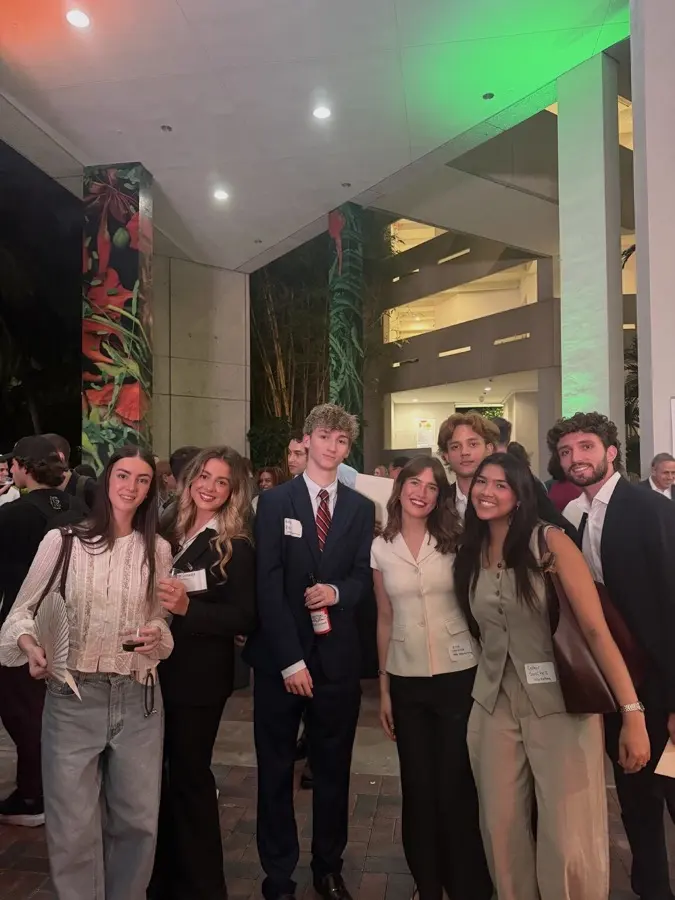
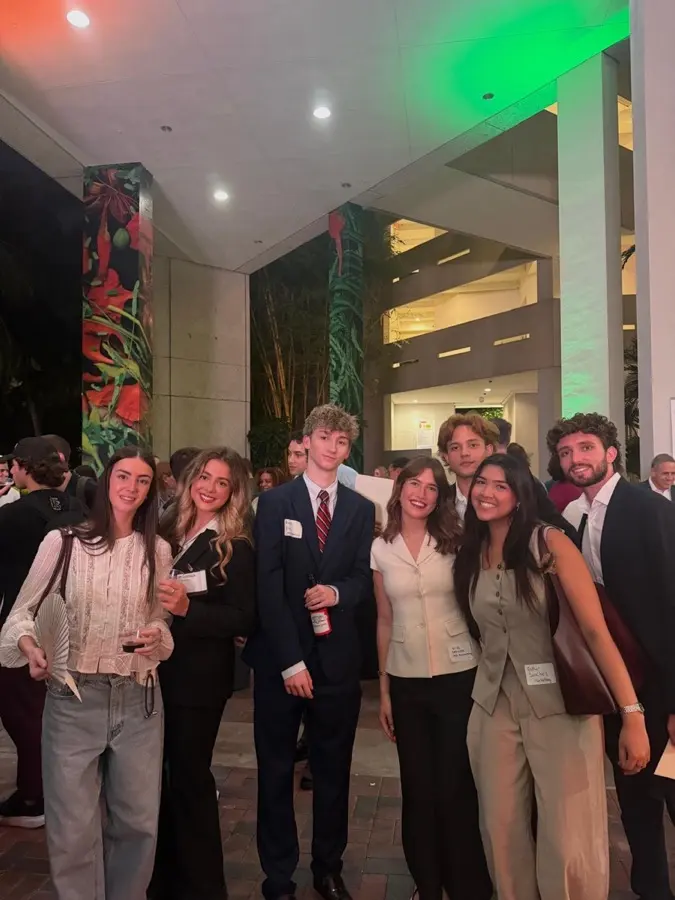
Add Daily Crunch case, first-semester story and new Clearwater and Miami photos

diff --git a/index.html b/index.html
@@ -16,7 +16,7 @@
 	<link rel="preconnect" href="https://fonts.gstatic.com" crossorigin>
 	<link rel="stylesheet" href="https://fonts.googleapis.com/css2?family=DM+Mono:wght@400;500&family=Fraunces:ital,opsz,wght,SOFT,WONK@0,9..144,300..700,0..100,0..1;1,9..144,300..700,0..100,0..1&family=Poppins:wght@300;400;500;600&display=swap">
 	<link rel="preload" as="image" href="assets/img/headshot.webp" type="image/webp">
-	<link rel="stylesheet" href="assets/css/style.css?v=6">
+	<link rel="stylesheet" href="assets/css/style.css?v=8">
 	<script>document.documentElement.classList.add("js");</script>
 </head>
 <body>
@@ -202,7 +202,7 @@
 							<h3 class="panel-city">Clearwater<small>Florida</small></h3>
 							<p class="panel-title">New country, new language, new education system.</p>
 							<p>In August 2021 I moved from Italy to the United States. I left my family, my friends, and basically everything I knew. I barely spoke English, and I had to learn a completely different culture and school system.</p>
-							<p>I started at St. Petersburg College in Clearwater, near Tampa, beginning with intensive English. Two years later I had my Associate of Arts and straight A's. Looking back, this is where I learned to be independent, adaptable, and comfortable with change.</p>
+							<p>I started at St. Petersburg College in Clearwater, near Tampa, in the Intensive English Program. By November I was presenting in English, on artificial intelligence in cars. Two years later I had my Associate of Arts and straight A's. This is where I learned to be independent, adaptable, and comfortable with change.</p>
 						</div>
 						<div class="panel-visual">
 							<button class="flip" type="button" aria-pressed="false" aria-label="Clearwater: flip between the illustration and the photo" data-cursor="Flip">
@@ -325,8 +325,8 @@
 											</g>
 										</svg>
 									</span>
-									<span class="flip-face flip-back arch arch--wide">
-										<img src="assets/img/um-cohort-sm.webp" width="900" height="529" decoding="async" alt="The inaugural M.S. in Marketing cohort at the University of Miami Business School">
+									<span class="flip-face flip-back arch">
+										<img src="assets/img/um-team-portrait-sm.webp" width="900" height="1200" decoding="async" alt="Giuseppe and three teammates in suits in front of their Daily Crunch presentation slide at the University of Miami">
 									</span>
 								</span>
 								<span class="flip-hint" aria-hidden="true"><svg viewBox="0 0 24 24"><path d="M3 12a9 9 0 0 1 15.300-6.400L21 8"/><path d="M21 3v5h-5"/><path d="M21 12a9 9 0 0 1-15.300 6.400L3 16"/><path d="M3 21v-5h5"/></svg></span>
@@ -430,11 +430,21 @@
 					</a>
 
 					<button class="card card--crooked rv" type="button" data-dialog="dlg-crooked" data-cursor="Open">
-						<img src="assets/img/um-crookedpop-kickoff-sm.webp" width="900" height="612" loading="lazy" decoding="async" alt="">
+						<img src="assets/img/um-crookedpop-team-sm.webp" width="900" height="506" loading="lazy" decoding="async" alt="">
 						<span class="card-top"><span class="tag tag--light">Live client project · In progress</span></span>
 						<span class="card-body">
 							<span class="card-title">Crooked Pop <em>× MKT 657</em></span>
 							<span class="card-desc">A real brief from a real brand, inside my graduate Digital Marketing class.</span>
+						</span>
+						<span class="card-arrow" aria-hidden="true"><svg viewBox="0 0 24 24"><path d="M7 17L17 7M9 7h8v8"/></svg></span>
+					</button>
+
+					<button class="card card--crunch rv" type="button" data-dialog="dlg-crunch" data-cursor="Open">
+						<img src="assets/img/um-dailycrunch-team-sm.webp" width="900" height="675" loading="lazy" decoding="async" alt="">
+						<span class="card-top"><span class="tag tag--light">Team case analysis · MKT 695</span></span>
+						<span class="card-body">
+							<span class="card-title">Daily Crunch <em>case</em></span>
+							<span class="card-desc">A growth strategy for a start-up that lost in-person sampling, defended in front of the class.</span>
 						</span>
 						<span class="card-arrow" aria-hidden="true"><svg viewBox="0 0 24 24"><path d="M7 17L17 7M9 7h8v8"/></svg></span>
 					</button>
@@ -552,6 +562,7 @@
 									<li>Strategic Marketing</li>
 									<li>New Product Development</li>
 									<li>Application of AI in Marketing</li>
+								<li>MKT 695 Topics in Marketing</li>
 								</ul>
 							</div>
 						</div></div>
@@ -596,7 +607,7 @@
 						</button></h3>
 						<div class="acc-panel" id="edu-spc" role="region" aria-labelledby="edu-spc-b"><div class="acc-inner">
 							<div>
-								<p>My first two years in the United States: from intensive English to a full business and liberal arts foundation, before transferring to the University of Georgia.</p>
+								<p>My first two years in the United States: from the Intensive English Program at the International Language Institute to a full business and liberal arts foundation, before transferring to the University of Georgia.</p>
 								<ul class="badges">
 									<li><b>4.00</b> GPA on transfer credits</li>
 								</ul>
@@ -625,6 +636,7 @@
 				<header class="sec-head">
 					<p class="eyebrow rv">(07) — Point of view</p>
 					<h2 class="display rv">AI will transform marketing. <em>It won't replace marketers.</em></h2>
+					<p class="sec-lede rv">A thread that started early: in November 2021, three months after landing in Florida, my class presentation in the Intensive English Program was on artificial intelligence in cars.</p>
 				</header>
 
 				<div class="pov-grid">
@@ -678,23 +690,30 @@
 
 				<div class="gallery" id="gallery">
 					<button class="shot" type="button" data-set="athens" data-full="assets/img/grad-bell.webp" data-cap="Ringing the Chapel Bell · University of Georgia" data-cursor="View"><img src="assets/img/grad-bell-sm.webp" width="600" height="900" loading="lazy" decoding="async" alt="Giuseppe in cap and gown ringing the Chapel Bell at the University of Georgia"><span>Ringing the Chapel Bell</span></button>
+					<button class="shot" type="button" data-set="miami" data-full="assets/img/um-ibis.webp" data-cap="With Sebastian the Ibis · Alumni Networking Social, Miami Business School" data-cursor="View"><img src="assets/img/um-ibis-sm.webp" width="675" height="900" loading="lazy" decoding="async" alt="Giuseppe in a dark blazer smiling next to Sebastian the Ibis, the University of Miami mascot"><span>With Sebastian the Ibis</span></button>
 					<button class="shot" type="button" data-set="miami" data-full="assets/img/um-cohort.webp" data-cap="Inaugural M.S. in Marketing cohort · Photo: University of Miami Business School" data-cursor="View"><img src="assets/img/um-cohort-sm.webp" width="900" height="529" loading="lazy" decoding="async" alt="The inaugural M.S. in Marketing cohort standing in a classroom at Miami Business School"><span>The inaugural cohort</span></button>
+					<button class="shot" type="button" data-set="clearwater" data-full="assets/img/spc-ai-talk.webp" data-cap="Presenting &ldquo;Artificial Intelligence in Cars&rdquo; in the Intensive English Program, November 2021 · Photo: SPC International Language Institute" data-cursor="View"><img src="assets/img/spc-ai-talk-sm.webp" width="900" height="570" loading="lazy" decoding="async" alt="Giuseppe presenting in a classroom next to a slide titled Artificial Intelligence in Cars with his name on it"><span>AI in Cars, 2021</span></button>
 					<button class="shot" type="button" data-set="clearwater" data-full="assets/img/spc-diploma.webp" data-cap="Associate of Arts · St. Petersburg College" data-cursor="View"><img src="assets/img/spc-diploma-sm.webp" width="601" height="900" loading="lazy" decoding="async" alt="Giuseppe in a blue cap and gown holding his St. Petersburg College diploma beside a college official in academic regalia"><span>Associate of Arts</span></button>
 					<button class="shot" type="button" data-set="athens" data-full="assets/img/grad-jump.webp" data-cap="Sanford Stadium · Athens, GA" data-cursor="View"><img src="assets/img/grad-jump-sm.webp" width="600" height="900" loading="lazy" decoding="async" alt="Giuseppe jumping in his graduation gown and throwing his cap at Sanford Stadium"><span>Class of 2026</span></button>
 					<button class="shot" type="button" data-set="athens" data-full="assets/img/grad-arch.webp" data-cap="The Arch · University of Georgia" data-cursor="View"><img src="assets/img/grad-arch-sm.webp" width="600" height="900" loading="lazy" decoding="async" alt="Giuseppe smiling beside the UGA Arch wearing a red graduation stole"><span>The Arch</span></button>
+					<button class="shot" type="button" data-set="miami" data-full="assets/img/um-crookedpop-team.webp" data-cap="Crooked Pop × MKT 657 · With classmates and our guest from the brand" data-cursor="View"><img src="assets/img/um-crookedpop-team-sm.webp" width="900" height="506" loading="lazy" decoding="async" alt="Giuseppe and four classmates holding Crooked Pop cans next to the guest speaker from the brand"><span>Crooked Pop, in hand</span></button>
 					<button class="shot" type="button" data-set="miami" data-full="assets/img/um-council.webp" data-cap="Marketing Advisory Council networking event · Photo: University of Miami Marketing Department" data-cursor="View"><img src="assets/img/um-council-sm.webp" width="900" height="675" loading="lazy" decoding="async" alt="M.S. in Marketing students with Marketing Advisory Council members"><span>Marketing Advisory Council night</span></button>
 					<button class="shot" type="button" data-set="athens" data-full="assets/img/grad-stage.webp" data-cap="FACS Convocation · College of Family and Consumer Sciences" data-cursor="View"><img src="assets/img/grad-stage-sm.webp" width="601" height="900" loading="lazy" decoding="async" alt="Giuseppe in cap and gown in front of a University of Georgia College of Family and Consumer Sciences banner"><span>Convocation</span></button>
 					<button class="shot" type="button" data-set="athens" data-full="assets/img/grad-fountain.webp" data-cap="North Campus · Athens, GA" data-cursor="View"><img src="assets/img/grad-fountain-sm.webp" width="600" height="900" loading="lazy" decoding="async" alt="Giuseppe standing in front of a fountain on the UGA campus"><span>North Campus</span></button>
+					<button class="shot" type="button" data-set="miami" data-full="assets/img/um-dailycrunch-team.webp" data-cap="Daily Crunch case analysis · MKT 695 Topics in Marketing, September 2026" data-cursor="View"><img src="assets/img/um-dailycrunch-team-sm.webp" width="900" height="675" loading="lazy" decoding="async" alt="Giuseppe and three teammates in suits standing in front of the title slide of their Daily Crunch case analysis"><span>Daily Crunch, the team</span></button>
 					<button class="shot" type="button" data-set="miami" data-full="assets/img/um-networking-group.webp" data-cap="Alumni Networking Social · Miami Business School" data-cursor="View"><img src="assets/img/um-networking-group-sm.webp" width="675" height="900" loading="lazy" decoding="async" alt="Giuseppe with classmates at the Miami Business School Alumni Networking Social"><span>Alumni Networking Social</span></button>
+					<button class="shot" type="button" data-set="clearwater" data-full="assets/img/spc-festival.webp" data-cap="International Language Institute students and instructors at the International Greek Festival, November 2021 · Photo: SPC International Language Institute" data-cursor="View"><img src="assets/img/spc-festival-sm.webp" width="900" height="589" loading="lazy" decoding="async" alt="Students and instructors of the International Language Institute in blue SPC T-shirts posing under oak trees"><span>ILI at the Greek Festival</span></button>
 					<button class="shot" type="button" data-set="clearwater" data-full="assets/img/spc-smile.webp" data-cap="Commencement · St. Petersburg College" data-cursor="View"><img src="assets/img/spc-smile-sm.webp" width="601" height="900" loading="lazy" decoding="async" alt="Giuseppe smiling in a blue St. Petersburg College cap and gown with gold cords"><span>First American diploma</span></button>
 					<button class="shot" type="button" data-set="athens" data-full="assets/img/grad-cap.webp" data-cap="Sanford Stadium · Athens, GA" data-cursor="View"><img src="assets/img/grad-cap-sm.webp" width="600" height="900" loading="lazy" decoding="async" alt="Giuseppe raising his graduation cap in the stands of Sanford Stadium"><span>Between the hedges</span></button>
 					<button class="shot" type="button" data-set="miami" data-full="assets/img/um-crookedpop-class.webp" data-cap="Crooked Pop kickoff, MKT 657 · Photo: Amy Agramonte / University of Miami" data-cursor="View"><img src="assets/img/um-crookedpop-class-sm.webp" width="900" height="465" loading="lazy" decoding="async" alt="The Digital Marketing class making the U hand sign with a guest speaker from Crooked Pop"><span>Throwing up the U</span></button>
 					<button class="shot" type="button" data-set="athens" data-full="assets/img/grad-columns.webp" data-cap="Holmes-Hunter Academic Building · University of Georgia" data-cursor="View"><img src="assets/img/grad-columns-sm.webp" width="600" height="900" loading="lazy" decoding="async" alt="Giuseppe laughing in his gown on the steps between white columns"><span>Holmes-Hunter</span></button>
 					<button class="shot" type="button" data-set="athens" data-full="assets/img/grad-handshake.webp" data-cap="FACS Convocation · University of Georgia" data-cursor="View"><img src="assets/img/grad-handshake-sm.webp" width="601" height="900" loading="lazy" decoding="async" alt="Giuseppe in cap and gown shaking hands with a faculty member in academic regalia"><span>The handshake</span></button>
 					<button class="shot" type="button" data-set="miami" data-full="assets/img/um-networking.webp" data-cap="Alumni Networking Social · Photo: Unanue Graduate Career Advancement Center" data-cursor="View"><img src="assets/img/um-networking-sm.webp" width="900" height="599" loading="lazy" decoding="async" alt="Students and alumni networking on the Finker-Frenkel Family Promenade"><span>Once a ’Cane</span></button>
+					<button class="shot" type="button" data-set="clearwater" data-full="assets/img/spc-day-one.webp" data-cap="Fall Semester 2021, Intensive English Program · Photo: SPC International Language Institute" data-cursor="View"><img src="assets/img/spc-day-one-sm.webp" width="900" height="675" loading="lazy" decoding="async" alt="A group of international students wearing face masks standing together in a campus lounge"><span>Fall 2021: the start</span></button>
 					<button class="shot" type="button" data-set="clearwater" data-full="assets/img/spc-portrait.webp" data-cap="St. Petersburg College · Clearwater, FL" data-cursor="View"><img src="assets/img/spc-portrait-sm.webp" width="601" height="900" loading="lazy" decoding="async" alt="Portrait of Giuseppe in a blue cap and gown with gold cords"><span>St. Petersburg College</span></button>
 					<button class="shot" type="button" data-set="athens" data-full="assets/img/grad-stadium.webp" data-cap="Sanford Stadium · University of Georgia" data-cursor="View"><img src="assets/img/grad-stadium-sm.webp" width="600" height="900" loading="lazy" decoding="async" alt="Giuseppe in a navy suit and red stole outside Sanford Stadium"><span>Sanford Stadium</span></button>
 					<button class="shot" type="button" data-set="athens" data-full="assets/img/grad-portrait.webp" data-cap="B.S. in Consumer Economics · University of Georgia" data-cursor="View"><img src="assets/img/grad-portrait-sm.webp" width="600" height="900" loading="lazy" decoding="async" alt="Close portrait of Giuseppe in his graduation gown and red stole"><span>B.S., Consumer Economics</span></button>
+					<button class="shot" type="button" data-set="miami" data-full="assets/img/um-backstage.webp" data-cap="Minutes before a presentation · University of Miami" data-cursor="View"><img src="assets/img/um-backstage-sm.webp" width="900" height="675" loading="lazy" decoding="async" alt="Selfie of Giuseppe in a suit and tie with teammates getting ready behind him"><span>Before the pitch</span></button>
 					<button class="shot" type="button" data-set="miami" data-full="assets/img/um-class.webp" data-cap="With classmates and faculty" data-cursor="View"><img src="assets/img/um-class-sm.webp" width="900" height="675" loading="lazy" decoding="async" alt="A group of classmates and a professor posing in a classroom"><span>Classmates</span></button>
 					<button class="shot" type="button" data-set="athens" data-full="assets/img/grad-road.webp" data-cap="Athens, GA" data-cursor="View"><img src="assets/img/grad-road-sm.webp" width="600" height="900" loading="lazy" decoding="async" alt="Giuseppe standing in the middle of an empty campus road in his gown"><span>Athens, GA</span></button>
 					<button class="shot" type="button" data-set="athens" data-full="assets/img/grad-lamppost.webp" data-cap="North Campus · University of Georgia" data-cursor="View"><img src="assets/img/grad-lamppost-sm.webp" width="600" height="900" loading="lazy" decoding="async" alt="Giuseppe leaning on a lamppost holding his graduation cap"><span>North Campus</span></button>
@@ -768,12 +787,35 @@
 			<h2 class="display" id="dlg-crooked-t">Crooked Pop <em>× MKT 657</em></h2>
 			<p class="lead">In my graduate Digital Marketing class we're working on a real client brief for Crooked Pop, one of the live corporate partner projects of the M.S. in Marketing.</p>
 			<div class="case-photos">
+				<figure><img src="assets/img/um-crookedpop-team-sm.webp" width="900" height="506" loading="lazy" alt="Giuseppe and four classmates holding Crooked Pop cans next to the guest speaker from the brand"><figcaption>With classmates and our guest from Crooked Pop, product in hand</figcaption></figure>
 				<figure><img src="assets/img/um-crookedpop-kickoff-sm.webp" width="900" height="612" loading="lazy" alt="A guest speaker from Crooked Pop presenting the brand story to the class"><figcaption>The kickoff session. Photo: Amy Agramonte / University of Miami</figcaption></figure>
-				<figure><img src="assets/img/um-crookedpop-class-sm.webp" width="900" height="465" loading="lazy" alt="The class and the guest speaker making the U sign"><figcaption>The M.S. in Marketing class with the Crooked Pop team</figcaption></figure>
+				<figure class="wide"><img src="assets/img/um-crookedpop-class.webp" width="1800" height="931" loading="lazy" alt="The class and the guest speaker making the U sign"><figcaption>The M.S. in Marketing class with the Crooked Pop team. Photo: Amy Agramonte / University of Miami</figcaption></figure>
 			</div>
 			<div class="case-out">
 				<div><p class="eyebrow">The brief</p><p>The project kicked off with Jack Weiss, VP of Marketing &amp; Strategic Brand Partnerships, in the classroom and CMO Chris Brown on Zoom. We heard the story of the brand and of its founder, Ben Weiss, who previously founded and sold Bai.</p></div>
 				<div><p class="eyebrow">Why it's interesting</p><p>It's a real client, and it comes with a crash course in how marketing works in the alcohol industry. Final presentations are still to come.</p></div>
+			</div>
+		</div>
+	</dialog>
+
+	<dialog class="case" id="dlg-crunch" aria-labelledby="dlg-crunch-t">
+		<div class="case-inner">
+			<button class="case-close" type="button" aria-label="Close">Close<svg viewBox="0 0 24 24" aria-hidden="true"><path d="M6 6l12 12M18 6L6 18"/></svg></button>
+			<p class="eyebrow">Team case analysis · MKT 695 Topics in Marketing · University of Miami · September 2026</p>
+			<h2 class="display" id="dlg-crunch-t">Daily Crunch <em>case</em></h2>
+			<p class="lead">&ldquo;Marketing a Start-Up During a Shutdown.&rdquo; With three classmates I presented a digital-first, distribution-led growth strategy for a start-up that could no longer count on in-person sampling.</p>
+			<div class="case-photos">
+				<figure><img src="assets/img/um-dailycrunch-team-sm.webp" width="900" height="675" loading="lazy" alt="Giuseppe and three teammates in suits standing in front of the title slide of their Daily Crunch case analysis"><figcaption>The team, right before presenting</figcaption></figure>
+				<figure><img src="assets/img/um-dailycrunch-talk-sm.webp" width="900" height="506" loading="lazy" alt="The team presenting a slide titled Not Every Lever Is Worth Chasing, the 80/20, to the class"><figcaption>&ldquo;Not every lever is worth chasing&rdquo;: the prioritization slide</figcaption></figure>
+			</div>
+			<ol class="steps steps--3">
+				<li><b>01</b><h3>Define</h3><p>Frame the problem: how to reach trial and revenue once sampling in person is off the table.</p></li>
+				<li><b>02</b><h3>Prioritize</h3><p>Plot every option against business impact and effort, and keep the few that matter. The 80/20.</p></li>
+				<li><b>03</b><h3>Defend</h3><p>Stand behind one scalable path, in front of the class.</p></li>
+			</ol>
+			<div class="case-out">
+				<div><p class="eyebrow">The approach</p><p>We applied the Miami Method to define, prioritize and defend our recommendation: a growth plan for 2021 built on digital channels and distribution.</p></div>
+				<div><p class="eyebrow">The format</p><p>A team of four, one deck and one recommendation, presented in September 2026 in my first weeks of the M.S. in Marketing.</p></div>
 			</div>
 		</div>
 	</dialog>

diff --git a/assets/css/style.css b/assets/css/style.css
@@ -491,9 +491,9 @@ html:not(.js) .flip:hover .flip-inner, html:not(.js) .flip:focus .flip-inner { t
 .card { --accent: var(--rosso); }
 .card--underdawgs { grid-column: span 7; }
 .card--study { grid-column: span 5; background: var(--rosso); color: var(--ink); }
-.card--crooked { grid-column: span 5; }
-.card--rimowa { grid-column: span 3; background: linear-gradient(160deg, #3a3835, #1d1c1a); }
-.card--emil { grid-column: span 4; background: var(--cream-3); color: var(--ink); --accent: var(--rosso-d); }
+.card--crooked, .card--crunch { grid-column: span 6; }
+.card--rimowa { grid-column: span 5; background: linear-gradient(160deg, #3a3835, #1d1c1a); }
+.card--emil { grid-column: span 7; background: var(--cream-3); color: var(--ink); --accent: var(--rosso-d); }
 
 .card-top { display: flex; justify-content: space-between; align-items: center; gap: 12px; }
 .tag { display: inline-block; padding: 7px 12px; border: 1px solid currentColor; border-radius: 99px; font-family: var(--mono); font-size: .66rem; letter-spacing: .1em; text-transform: uppercase; line-height: 1.2; }
@@ -529,16 +529,16 @@ html:not(.js) .flip:hover .flip-inner, html:not(.js) .flip:focus .flip-inner { t
 .card-big { font-family: var(--serif); font-size: clamp(5rem, 11vw, 10.5rem); line-height: .8; letter-spacing: -.06em; }
 .card-big small { font-family: var(--mono); font-size: .8rem; letter-spacing: .12em; margin-right: 10px; vertical-align: top; }
 
-.card--crooked img { position: absolute; inset: 0; z-index: -2; width: 100%; height: 100%; object-fit: cover; transition: scale 1.2s var(--ease); }
-.card--crooked::after { content: ""; position: absolute; inset: 0; z-index: -1; background: linear-gradient(180deg, rgba(24, 23, 22, .5) 0%, rgba(24, 23, 22, .35) 30%, rgba(24, 23, 22, .9) 62%, rgba(24, 23, 22, .97) 100%); }
+/* photo cards: picture behind, text on a dark fade */
+.card--crooked img, .card--crunch img { position: absolute; inset: 0; z-index: -2; width: 100%; height: 100%; object-fit: cover; object-position: 50% 22%; filter: saturate(.9); transition: scale 1.2s var(--ease); }
+.card--crooked::after, .card--crunch::after { content: ""; position: absolute; inset: 0; z-index: -1; background: linear-gradient(180deg, rgba(24, 23, 22, .42) 0%, rgba(24, 23, 22, .18) 26%, rgba(24, 23, 22, .88) 64%, rgba(24, 23, 22, .97) 100%); }
 .card--crooked .card-title em { display: block; white-space: nowrap; }
-.card--crooked img { filter: saturate(.9); }
-.card--crooked:hover img { scale: 1.06; }
+.card--crooked:hover img, .card--crunch:hover img { scale: 1.06; }
 .grooves { position: absolute; inset: 0; z-index: -1; background: repeating-linear-gradient(90deg, transparent 0 15px, rgba(251, 249, 230, .09) 15px 17px, rgba(0, 0, 0, .25) 17px 19px); transition: background-position .9s var(--ease); }
 .card--rimowa:hover .grooves { background-position: 19px 0; }
 
 @media (max-width: 1100px) {
-	.card--underdawgs, .card--study, .card--crooked { grid-column: span 12; }
+	.card--underdawgs, .card--study, .card--crooked, .card--crunch { grid-column: span 12; }
 	.card--rimowa, .card--emil { grid-column: span 6; }
 }
 @media (max-width: 640px) {
@@ -804,6 +804,8 @@ dialog.case[open]::backdrop { animation: fade .4s var(--ease); }
 .case-photos figure { display: grid; gap: 8px; }
 .case-photos img { width: 100%; aspect-ratio: 3 / 2; object-fit: cover; border-radius: 16px; }
 .case-photos figcaption { font-size: .76rem; color: var(--muted); }
+.case-photos .wide { grid-column: 1 / -1; }
+.case-photos .wide img { aspect-ratio: 900 / 400; object-position: 50% 42%; }
 @media (max-width: 760px) {
 	dialog.case { width: 100vw; max-width: 100vw; max-height: 92vh; margin: auto 0 0; border-radius: var(--r) var(--r) 0 0; }
 	.steps, .steps--3, .case-out, .case-photos { grid-template-columns: 1fr; }
